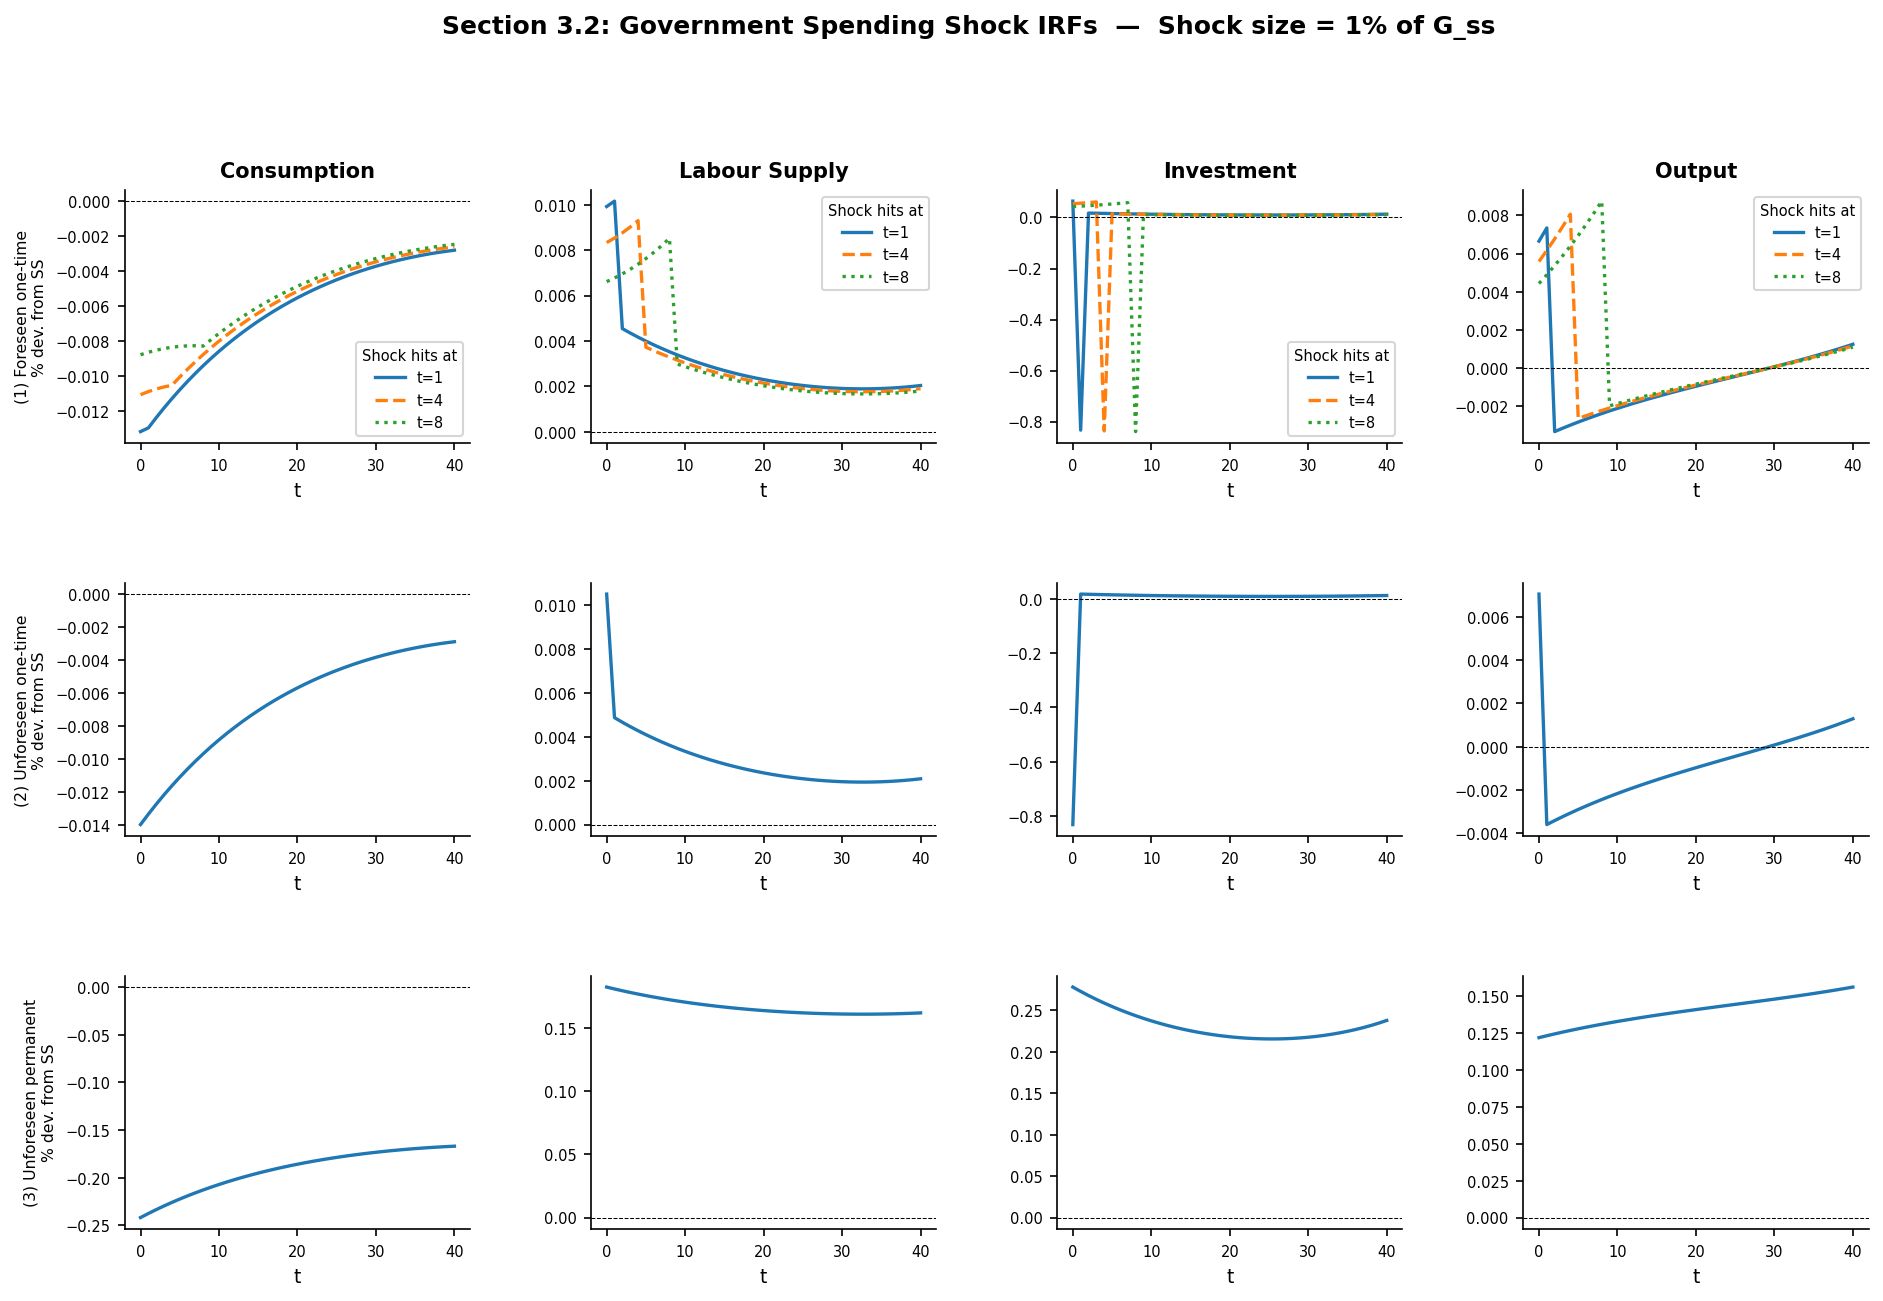
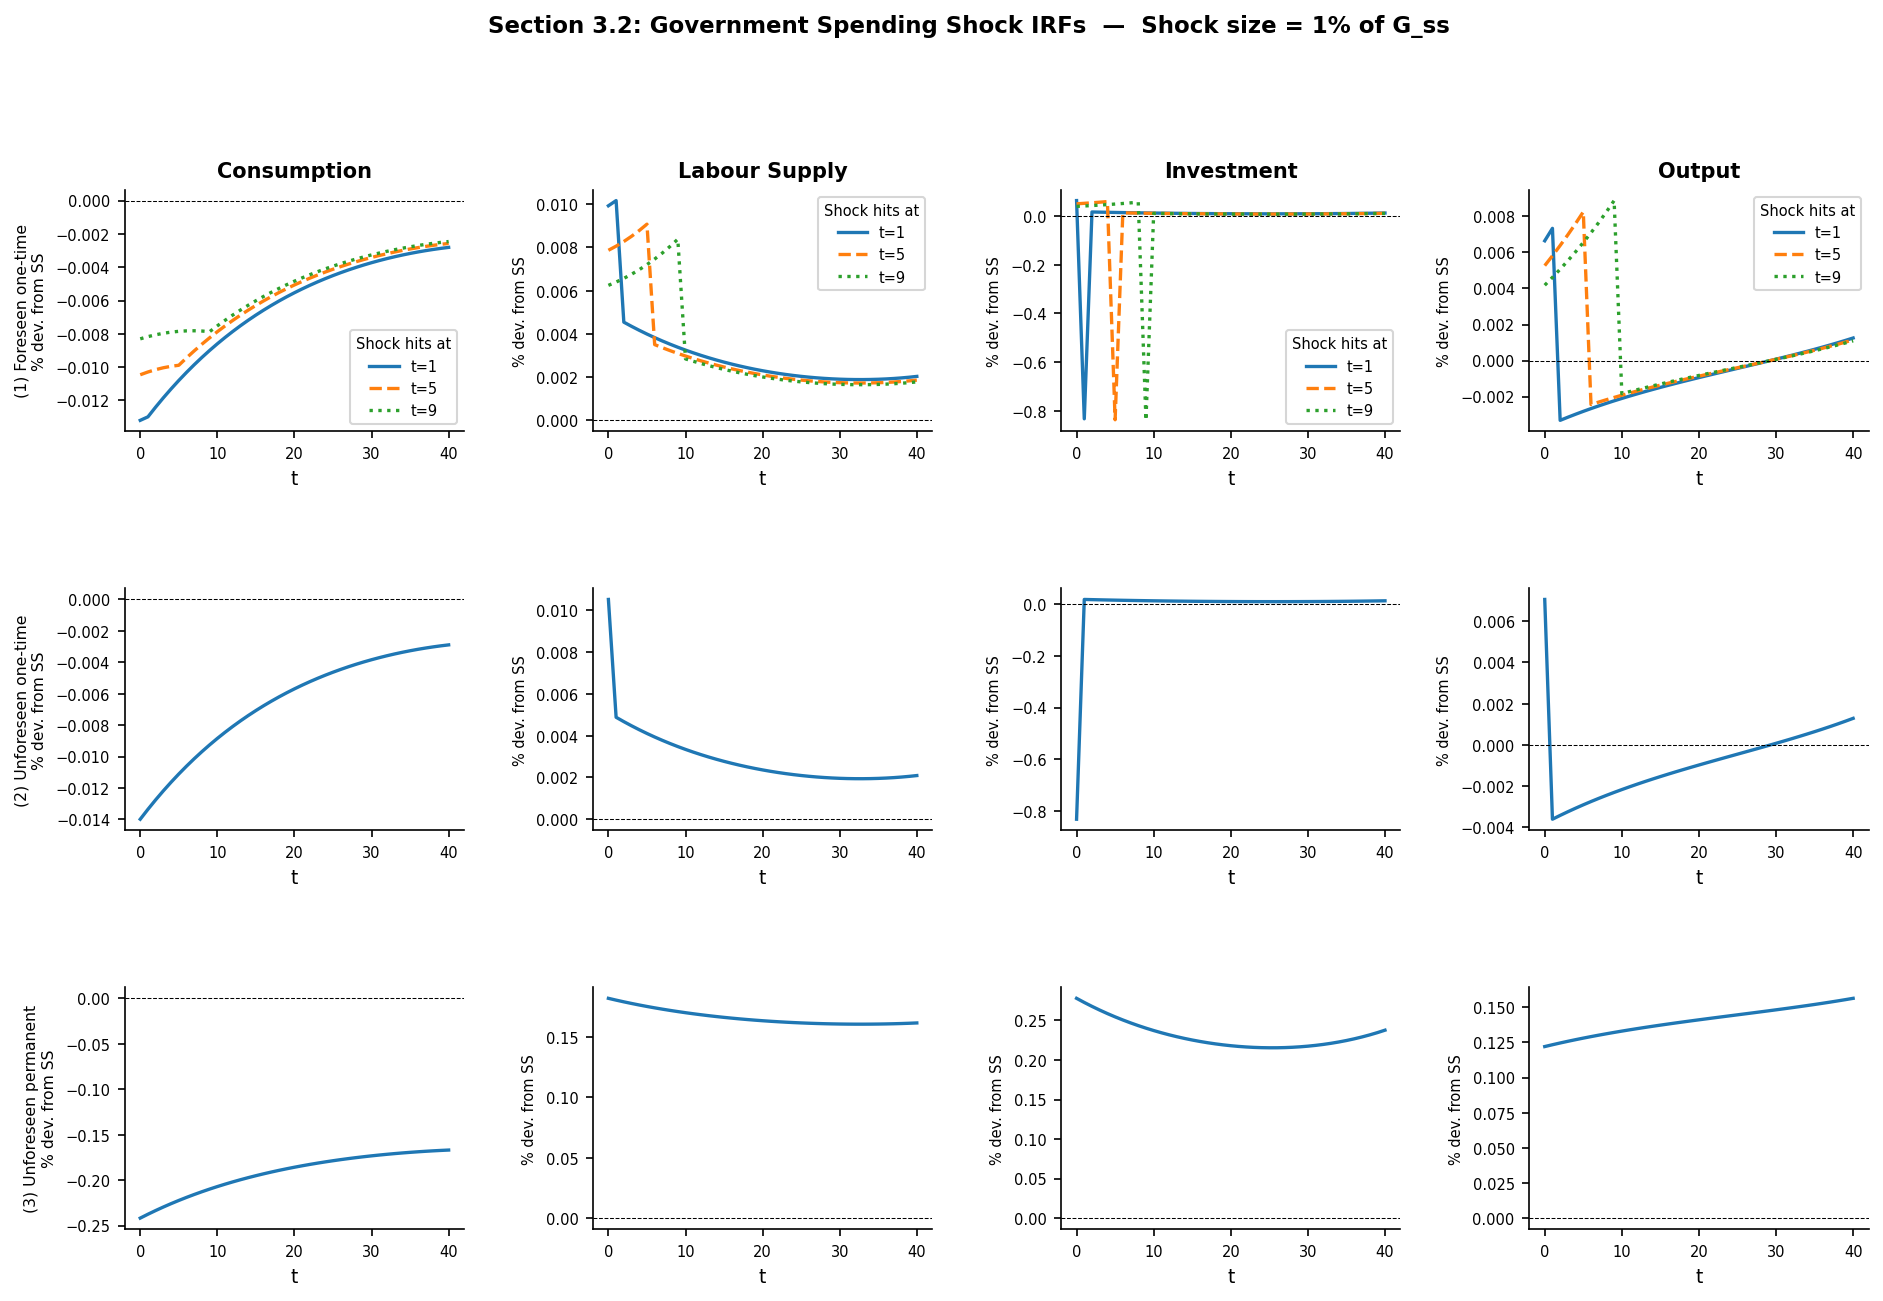
update IRF plots

diff --git a/section_3_2_updated.py b/section_3_2_updated.py
@@ -17,7 +17,9 @@ target_L  = 1.0 / 3.0
 T         = 40
 
 SHOCK_SIZES    = [0.01, 0.05, 0.10]   # 1%, 5%, 10% of G_ss
-FORESEEN_DATES = [1, 4, 8]            # announcement leads 
+FORESEEN_DATES = [1, 5, 9]            # announcement leads (quarters)
+BENCHMARK_LEAD = 5                     # benchmark foreseen lead
+BENCHMARK_SIZE = 0.10                  # benchmark shock size
 
 # =============================================================================
 # 2. CORE MODEL EQUATIONS
@@ -142,19 +144,16 @@ def solve_transition(K0, z, chi, G_path, initial_ss, terminal_ss):
 # =============================================================================
 
 def make_foreseen_path(G_ss, shock_size, T_sim, lead):
-    """Announced at t=0, hits once at t=lead."""
     path = np.full(T_sim+1, G_ss)
     path[lead] = G_ss * (1.0 + shock_size)
     return path
 
 def make_unforeseen_onetime_path(G_ss, shock_size, T_sim):
-    """No advance notice, hits once at t=0."""
     path = np.full(T_sim+1, G_ss)
     path[0] = G_ss * (1.0 + shock_size)
     return path
 
 def make_permanent_path(G_ss, shock_size, T_sim):
-    """No advance notice, permanent increase from t=0."""
     return np.full(T_sim+1, G_ss * (1.0 + shock_size))
 
 # =============================================================================
@@ -169,7 +168,7 @@ def plot_figure(foreseen_by_lead, res_unforeseen, res_permanent,
                 ss, shock_size_pct, save_path=None):
     """
     One figure per shock size. 3 rows x 4 cols.
-      Row 1: foreseen — 3 coloured lines (lead 1Q, 4Q, 8Q overlaid)
+      Row 1: foreseen — 3 lines (t=1, 5, 9) overlaid; t=5 is benchmark
       Row 2: unforeseen one-time — single line
       Row 3: unforeseen permanent — single line
     """
@@ -182,25 +181,35 @@ def plot_figure(foreseen_by_lead, res_unforeseen, res_permanent,
     ]
     colors     = ["#1f77b4", "#ff7f0e", "#2ca02c"]
     linestyles = ["-", "--", ":"]
+    linewidths = [1.6, 1.6, 1.6]
     tgrid      = np.arange(T + 1)
 
     fig, axes = plt.subplots(
         3, 4, figsize=(15, 9),
-        gridspec_kw={"hspace": 0.55, "wspace": 0.35}
+        gridspec_kw={"hspace": 0.65, "wspace": 0.38}
     )
+
+    is_benchmark = (shock_size_pct == int(BENCHMARK_SIZE * 100))
 
     for col, (var, var_label) in enumerate(vars_plot):
 
         # Row 0: foreseen, 3 leads overlaid
         ax = axes[0, col]
-        for (lead, color, ls) in zip(FORESEEN_DATES, colors, linestyles):
+        for (lead, color, ls, lw) in zip(
+                FORESEEN_DATES, colors, linestyles, linewidths):
+            # thicker line for benchmark lead
+            lw_use = 2.4 if (lead == BENCHMARK_LEAD and is_benchmark) else lw
+            label  = f"t={lead} (benchmark)" if (
+                lead == BENCHMARK_LEAD and is_benchmark) else f"t={lead}"
             ax.plot(tgrid, pct_dev(foreseen_by_lead[lead][var], ss[var]),
-                    label=f"t={lead}", color=color,
-                    linewidth=1.6, linestyle=ls)
+                    label=label, color=color,
+                    linewidth=lw_use, linestyle=ls)
         ax.axhline(0, color="black", linewidth=0.5, linestyle="--")
         ax.set_title(var_label, fontsize=10, fontweight="bold", pad=6)
         if col == 0:
             ax.set_ylabel(row_labels[0] + "\n% dev. from SS", fontsize=7.5)
+        else:
+            ax.set_ylabel("% dev. from SS", fontsize=7)
         ax.set_xlabel("t", fontsize=9)
         ax.tick_params(labelsize=7)
         ax.spines["top"].set_visible(False)
@@ -215,6 +224,8 @@ def plot_figure(foreseen_by_lead, res_unforeseen, res_permanent,
         ax.axhline(0, color="black", linewidth=0.5, linestyle="--")
         if col == 0:
             ax.set_ylabel(row_labels[1] + "\n% dev. from SS", fontsize=7.5)
+        else:
+            ax.set_ylabel("% dev. from SS", fontsize=7)
         ax.set_xlabel("t", fontsize=9)
         ax.tick_params(labelsize=7)
         ax.spines["top"].set_visible(False)
@@ -227,14 +238,18 @@ def plot_figure(foreseen_by_lead, res_unforeseen, res_permanent,
         ax.axhline(0, color="black", linewidth=0.5, linestyle="--")
         if col == 0:
             ax.set_ylabel(row_labels[2] + "\n% dev. from SS", fontsize=7.5)
+        else:
+            ax.set_ylabel("% dev. from SS", fontsize=7)
         ax.set_xlabel("t", fontsize=9)
         ax.tick_params(labelsize=7)
         ax.spines["top"].set_visible(False)
         ax.spines["right"].set_visible(False)
 
+    benchmark_note = "  [Benchmark: 10% shock, t=5 lead]" if is_benchmark else ""
     fig.suptitle(
-        f"Section 3.2: Government Spending Shock IRFs  —  Shock size = {shock_size_pct}% of G_ss",
-        fontsize=12, fontweight="bold", y=1.01
+        f"Section 3.2: Government Spending Shock IRFs  —  "
+        f"Shock size = {shock_size_pct}% of G_ss{benchmark_note}",
+        fontsize=11, fontweight="bold", y=1.01
     )
 
     if save_path:
@@ -258,7 +273,9 @@ if __name__ == "__main__":
     print("=" * 50)
     for k, v in ss_ref.items():
         print(f"  {k:<6}: {v:.4f}")
-    print(f"  {'chi':<6}: {chi:.4f}\n")
+    print(f"  {'chi':<6}: {chi:.4f}")
+    print(f"\nBenchmark: shock size = {int(BENCHMARK_SIZE*100)}%, "
+          f"foreseen lead = t={BENCHMARK_LEAD}\n")
 
     G_ss = ss_ref["G"]
 
@@ -266,21 +283,21 @@ if __name__ == "__main__":
         size_pct = int(shock_size * 100)
         print(f"\n--- Shock size = {size_pct}% ---")
 
-        # Foreseen: 3 leads (timing is meaningful here)
+        # Foreseen: 3 leads
         foreseen_by_lead = {}
         for lead in FORESEEN_DATES:
             G_path = make_foreseen_path(G_ss, shock_size, T, lead)
             foreseen_by_lead[lead] = solve_transition(
                 ss_ref["K"], z_sim, chi, G_path, ss_ref, ss_ref)
-            print(f"  Foreseen lead={lead}Q done.")
+            print(f"  Foreseen lead=t{lead} done.")
 
-        # Unforeseen one-time: solved once at t=0
+        # Unforeseen one-time at t=0
         G_unf = make_unforeseen_onetime_path(G_ss, shock_size, T)
         res_unforeseen = solve_transition(
             ss_ref["K"], z_sim, chi, G_unf, ss_ref, ss_ref)
         print(f"  Unforeseen one-time done.")
 
-        # Unforeseen permanent: solved once at t=0
+        # Unforeseen permanent at t=0
         terminal_perm = solve_steady_state(
             z_sim, chi, G_ss * (1.0 + shock_size),
             guess=(ss_ref["K"], ss_ref["L"], ss_ref["C"])
